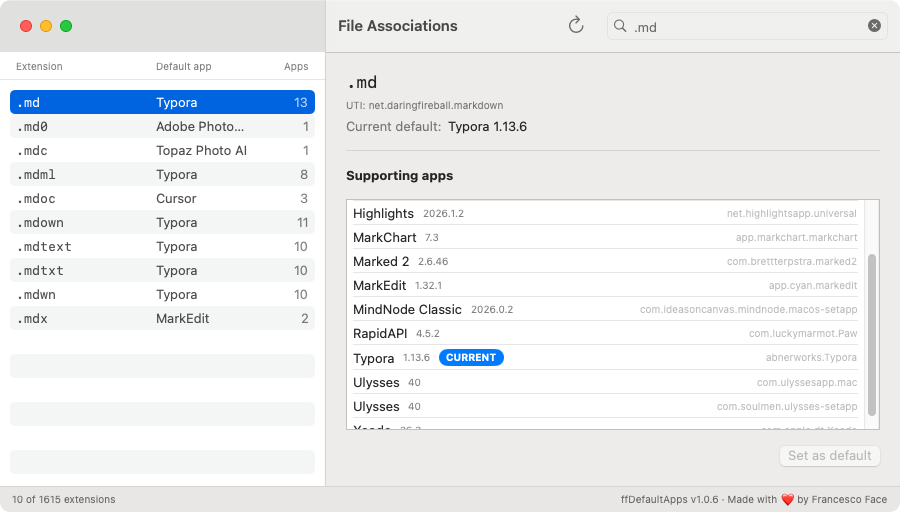
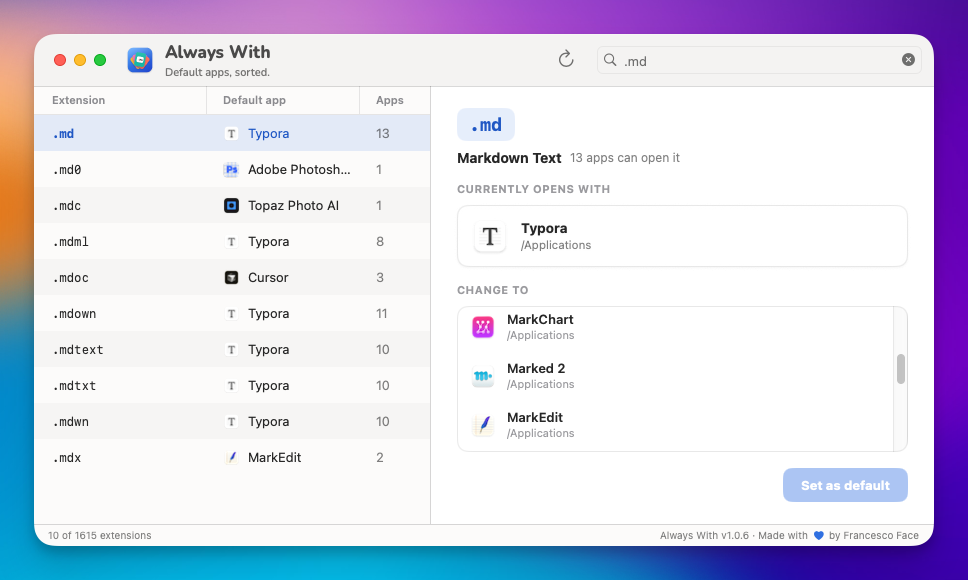
Refresh README with new screenshot and remove stub Help menu item
- Rewrites README with an inline icon header (docs/icon.png),
  a tagline, a friendlier intro, the new main-window screenshot,
  and a two-paths Install section: download the Releases zip
  (with the post-Sequoia "Settings → Privacy & Security → Open
  Anyway" Gatekeeper bypass, since right-click → Open no longer
  works) or build from source.
- Removes the auto-generated "Always With Help" menu item via
  CommandGroup(replacing: .help) {} — the previous link only
  produced an empty modal.

diff --git a/AlwaysWith/AlwaysWithApp.swift b/AlwaysWith/AlwaysWithApp.swift
@@ -94,6 +94,7 @@ struct AlwaysWithApp: App {
             CommandGroup(replacing: .appInfo) {
                 AboutMenuItem()
             }
+            CommandGroup(replacing: .help) { }
         }
 
         Window("About", id: "about-window") {

diff --git a/README.md b/README.md
@@ -1,27 +1,49 @@
+<img src="docs/icon.png" width="80" align="left" hspace="14"/>
+
 # Always With
 
-A small macOS utility to view and change file type associations, built with SwiftUI.
+**Default apps, sorted.**
 
-![Always With screenshot](docs/screenshot.png)
+A small macOS utility for tidying up your file-type associations. It lists every extension on your Mac, shows the app that's currently set as the default, and lets you reassign it to any other app that declared it knows how to open that kind of file.
 
-## What it does
+<br clear="all"/>
 
-- Scans `/Applications` for installed apps and reads each `Info.plist` to find which file extensions they declare support for.
-- Resolves the UTI for every extension and queries Launch Services for the current default app.
-- Lets you pick any extension and reassign its default app among the ones that declared support.
+![Always With main window](docs/screenshot.png)
 
-## Requirements
+## Install
 
-- macOS 15.6 or later
-- Xcode 26 or later (to build)
+Two ways.
 
-## Build & run
+### Grab the latest release
 
-Open `AlwaysWith.xcodeproj` in Xcode and ⌘R, or from the command line:
+1. Download `AlwaysWith-X.Y.Z.zip` from the [Releases](https://github.com/magobaol/always-with/releases) page.
+2. Unzip and drag `AlwaysWith.app` into `/Applications`.
+3. First launch will be blocked by Gatekeeper because the binary is signed ad-hoc, not with an Apple Developer ID certificate. To get past it:
+   - Try to open the app — macOS shows a "can't be opened" warning. Click **Done**.
+   - Open **System Settings → Privacy & Security**, scroll down to the *Security* section.
+   - You'll see *"AlwaysWith.app was blocked from use because it is not from an identified developer."* Click **Open Anyway** and confirm in the follow-up dialog.
+   - From this point on, macOS remembers the choice and the app launches normally.
+
+(The old "right-click → Open" trick was removed in macOS Sequoia, so Settings is now the only way.)
+
+### Or build from source
+
+Open `AlwaysWith.xcodeproj` in Xcode 26 or later and hit ⌘R, or from the command line:
 
 ```sh
 xcodebuild -project AlwaysWith.xcodeproj -scheme AlwaysWith -configuration Debug -destination 'platform=macOS' build
 ```
+
+## What it actually does
+
+- Scans `/Applications` for installed apps and reads each `Info.plist` to find which file extensions they declare support for.
+- Resolves the UTI for every extension and queries Launch Services for the current default app.
+- Lets you pick any extension and reassign its default app among the ones that declared support — with the change persisted system-wide, the same way Finder's "Open With → Change All…" would do it.
+
+## Requirements
+
+- macOS 15.6 or later (to run)
+- Xcode 26 or later (to build from source)
 
 ## Tests
 
@@ -41,4 +63,4 @@ Personal project. No license set.
 
 ---
 
-Made with ❤️ by Francesco Face
+Made with 💙 by Francesco Face